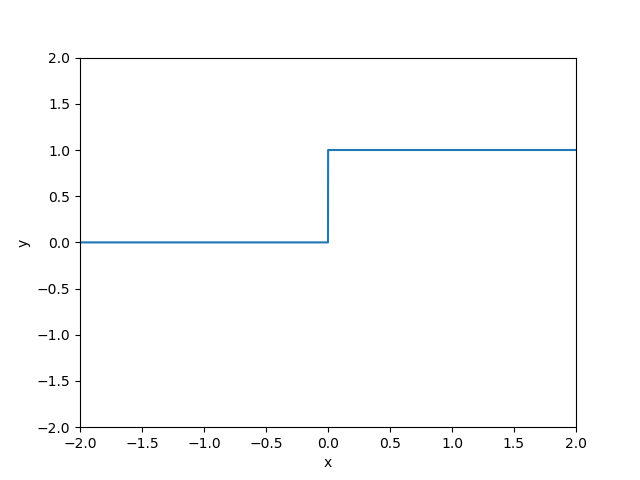
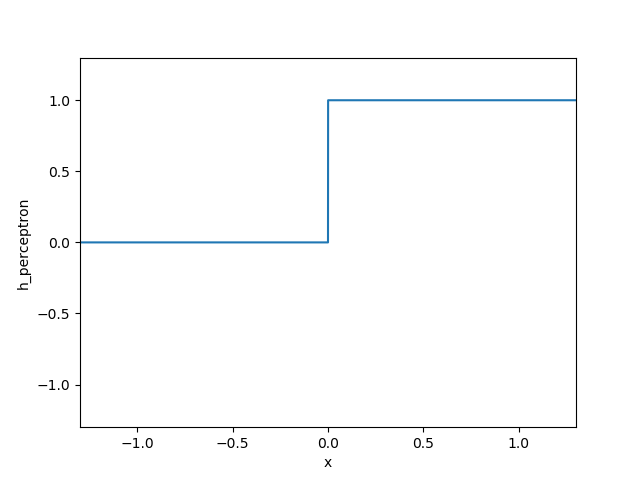
modify fig3-1

diff --git a/draw/fig3-1/fig3-1.py b/draw/fig3-1/fig3-1.py
@@ -6,13 +6,13 @@ def stepFunction(x):
     return y.astype(np.int)
 
 if __name__=='__main__':
-    plt.xlim((-2,2))
-    plt.ylim((-2,2))
+    plt.xlim((-1.3,1.3))
+    plt.ylim((-1.3,1.3))
 
     plt.xlabel('x')
-    plt.ylabel('y')
+    plt.ylabel('h_perceptron')
 
-    x = np.arange(-2,2,0.001)
+    x = np.arange(-2,2,0.0001)
     y = stepFunction(x)
     
     plt.plot(x,y)
